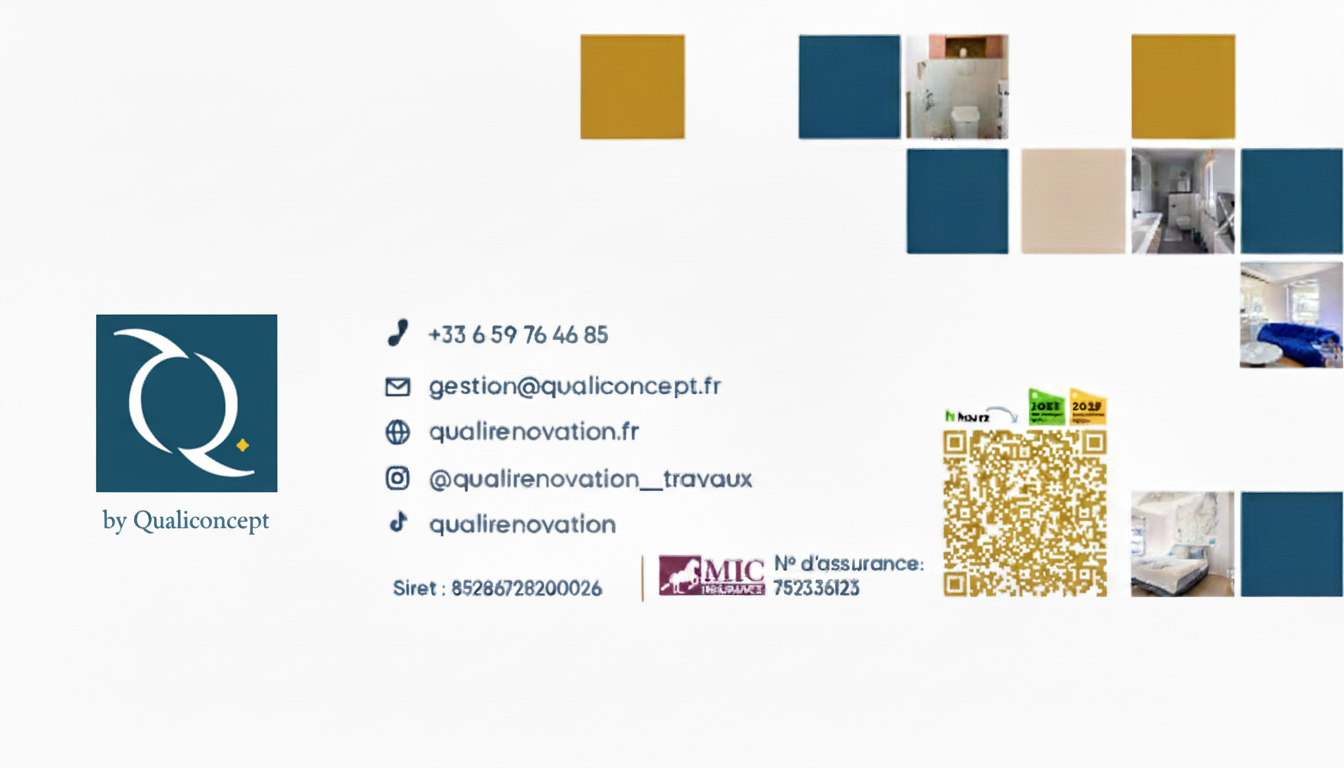
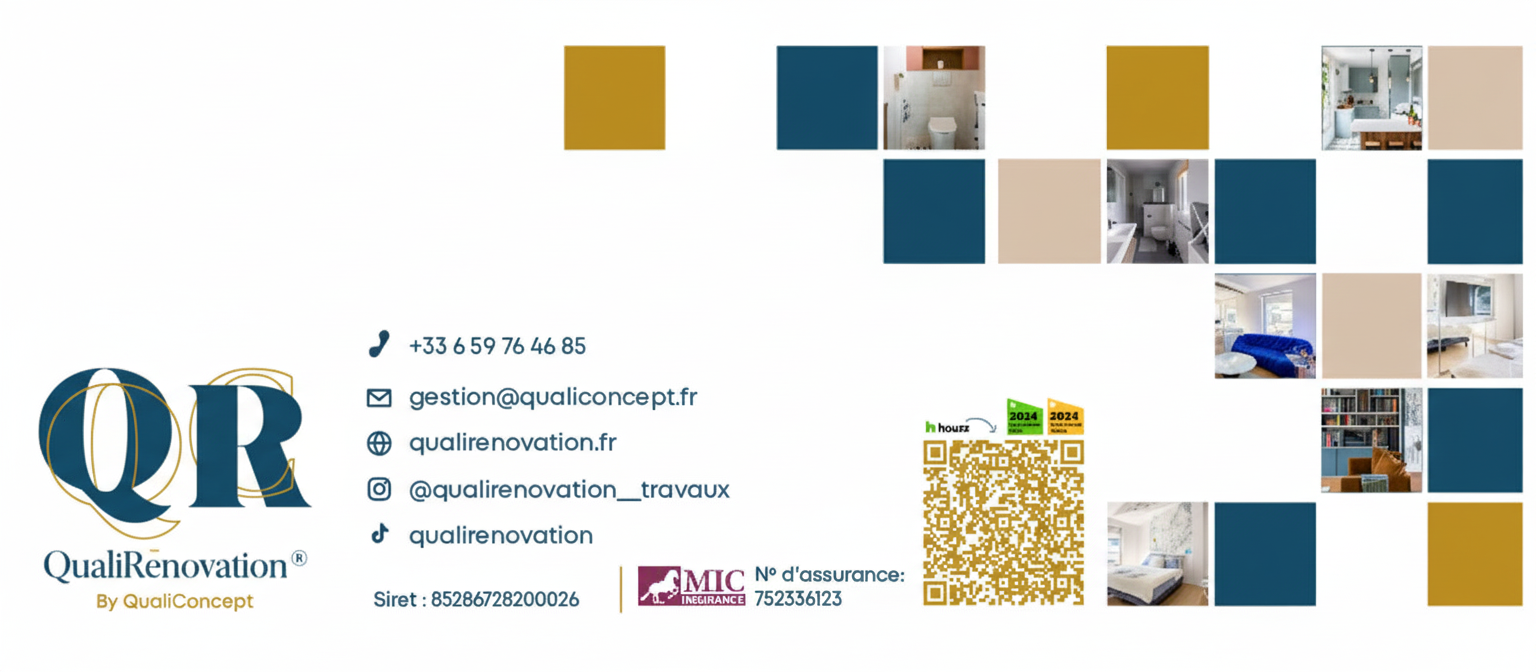
Changes

diff --git a/src/pages/VisuelsHouzz.tsx b/src/pages/VisuelsHouzz.tsx
@@ -103,7 +103,7 @@ export default function VisuelsHouzz() {
         {/* Pied de page Houzz */}
         <div>
           <h2 className="text-white text-xl mb-4">Pied de page Houzz</h2>
-          <div className="relative max-w-2xl mx-auto">
+          <div className="relative max-w-5xl mx-auto">
             <img 
               src={houzzPiedDePage} 
               alt="Pied de page Houzz" 
